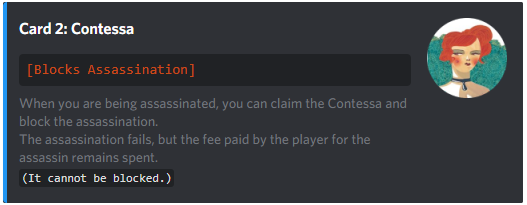
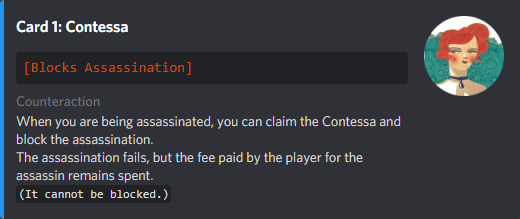
Added Counteractions to influence cards

Changed region(s): [[0.0, 0.0, 1.0, 1.0]]

diff --git a/src/utils/pmInfluence.js b/src/utils/pmInfluence.js
@@ -18,9 +18,19 @@ module.exports = (influence, cardNum) => {
 "Tax"
 \`\`\``
 				)
-				.addField(
-					'Take 3 coins from the Treasury.',
-					'`(It cannot be blocked.)`'
+				.addFields(
+					{
+						name: 'Character Action',
+						value:
+							'Take 3 coins from the Treasury.\n`(It cannot be blocked.)`',
+						inline: false,
+					},
+					{
+						name: 'Counteraction',
+						value:
+							'Claiming the Duke may counteract and block a player attempting to collect foreign aid.\n`The player trying to gain foreign aid receives no coins that turn.`',
+						inline: false,
+					}
 				);
 			break;
 		case infKeys[1]:
@@ -31,9 +41,8 @@ module.exports = (influence, cardNum) => {
 \`\`\``
 				)
 				.addField(
-					`When you are being assassinated, you can claim the Contessa and block the assassination.
-The assassination fails, but the fee paid by the player for the assassin remains spent.`,
-					'`(It cannot be blocked.)`'
+					`Counteraction`,
+					'When you are being assassinated, you can claim the Contessa and block the assassination.\nThe assassination fails, but the fee paid by the player for the assassin remains spent.\n`(It cannot be blocked.)`'
 				);
 			break;
 		case infKeys[2]:
@@ -43,9 +52,17 @@ The assassination fails, but the fee paid by the player for the assassin remains
 [Steal]
 \`\`\``
 				)
-				.addField(
-					'Take 2 coins from another player. If they only have one coin, take only one.',
-					`\`(Can be blocked by the Ambassador \`${serverEmojis.ambassador.code}\` or the Captain \`${serverEmojis.captain.code}\`)\``
+				.addFields(
+					{
+						name: 'Character Action',
+						value: `Take 2 coins from another player. If they only have one coin, take only one.\n\`(Can be blocked by the Ambassador \`${serverEmojis.ambassador.code}\` or the Captain \`${serverEmojis.captain.code}\`)\``,
+						inline: false,
+					},
+					{
+						name: 'Counteraction',
+						value: `The player who is being stolen can block extortion by claiming:\nThe \`Ambassador\`${serverEmojis.ambassador.code}\` \` or the \`Captain\`${serverEmojis.captain.code}\` \`.\n\`The player trying to steal receives no coins that turn.\``,
+						inline: false,
+					}
 				);
 			break;
 		case infKeys[3]:
@@ -67,9 +84,18 @@ Assassinate
 Exchange
 \`\`\``
 				)
-				.addField(
-					`You can Exchange cards with the Court. Take two random cards from the deck and choose which one, if any, to exchange with the cards face-down. Then, return two cards to the deck`,
-					'`(It cannot be blocked.)`'
+				.addFields(
+					{
+						name: 'Character Action',
+						value:
+							'You can Exchange cards with the Court. Take two random cards from the deck and choose which one, if any, to exchange with the cards face-down. Then, return two cards to the deck.\n`(It cannot be blocked.)`',
+						inline: false,
+					},
+					{
+						name: 'Counteraction',
+						value: `The player who is being stolen can block extortion by claiming:\nThe \`Ambassador\`${serverEmojis.ambassador.code}\` \` or the \`Captain\`${serverEmojis.captain.code}\` \`.\n\`The player trying to steal receives no coins that turn.\``,
+						inline: false,
+					}
 				);
 			break;
 		case infKeys[5]:
@@ -81,15 +107,15 @@ Exchange
 				)
 				.addFields(
 					{
-						name:
-							'You can Exchange a card with the Court. Draw 1 card and then return 1 card to the deck.',
-						value: '`(It cannot be blocked.)`',
+						name: 'Character Action 1',
+						value:
+							'You can Exchange a card with the Court. Draw 1 card and then return 1 card to the deck.\n`(It cannot be blocked.)`',
 						inline: true,
 					},
 					{
-						name:
-							'Choose a player; look at one of your cards, force or not the Exchange.',
-						value: '`(It cannot be blocked.)`',
+						name: 'Character Action 2',
+						value:
+							'Choose a player; look at one of your cards, force or not the Exchange.\n`(It cannot be blocked.)`',
 						inline: true,
 					}
 				);

diff --git a/src/index.js b/src/index.js
@@ -5,6 +5,7 @@ const Discord = require('discord.js');
 const commands = require('./commands');
 const Guild = require('./models/Guild');
 const Channel = require('./models/Channel');
+const pmInfluence = require('./utils/pmInfluence');
 
 const client = new Discord.Client();
 
@@ -42,6 +43,8 @@ For a better gaming experience, you can run the command \`[emojis]\`.
 	}
 
 	if (author.bot) return;
+
+	channel.send(pmInfluence('inquisitor', 1));
 
 	if (content.startsWith('[') && content.endsWith(']')) {
 		const command = commands[content];

diff --git a/README.md b/README.md
@@ -36,7 +36,7 @@ All commands begin with the prefix `[` and end with the suffix `]`
 
 All the cards have an incredible design, keeping all the essence of the original game. Each character has a different design that allows easy identification of the most important points. Below are some examples:
 
-<img src="src/assets/images/cap-card.png" style="border-radius: 8px;" />
+<img src="src/assets/images/amb-card.png" style="border-radius: 8px;" />
 <img src="src/assets/images/cont-card.png" style="border-radius: 8px;" />
 
 ## Disclaimer
